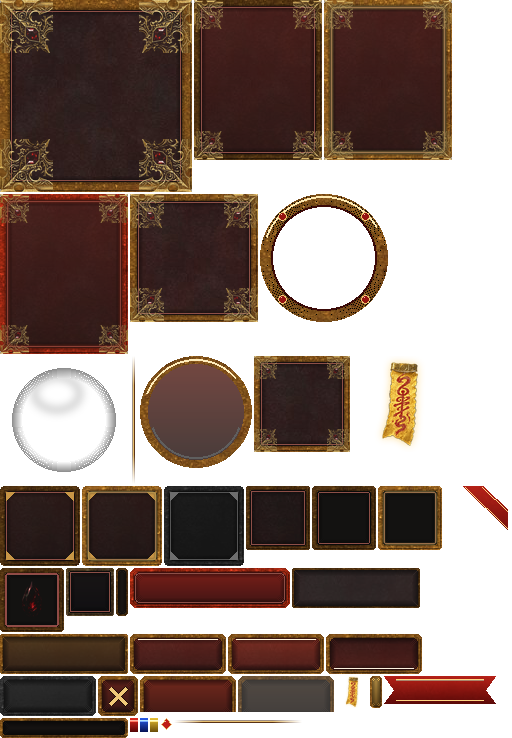
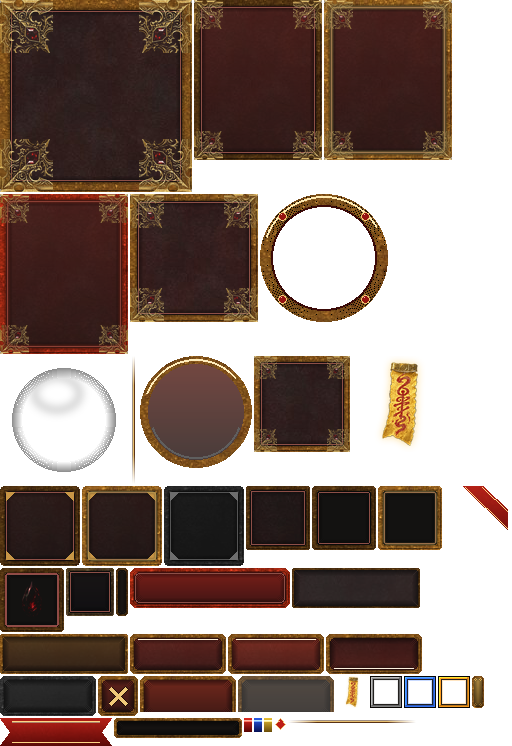
docs(ui): 第三轮品质框 qframe_common/magic/rare（细边九宫格）+ 品质色值清单 + 预览与 atlas 体积

diff --git a/docs/ui-preview/compose_quality.py b/docs/ui-preview/compose_quality.py
@@ -1,0 +1,47 @@
+"""品质框预览：1280×720 + 844×390，背包/装备栏/商店/对比面板（图标仅用于合成预览）。"""
+import os,glob
+exec(open(os.path.join(os.path.dirname(os.path.abspath(__file__)),'compose_preview.py'),encoding='utf-8').read().split("os.makedirs(f'{H}',exist_ok=True)")[0])
+EQ=[p for p in sorted(glob.glob(f'{R}/items/eq_*.png')) if '@2x' not in p]
+RK=['common','magic','rare'];CN={'common':'普通','magic':'精良','rare':'极品'};HEX={'common':(255,255,255),'magic':(0x5a,0xa8,0xff),'rare':(0xff,0xb0,0x20)}
+def cell(c,x,y,s,i,rk,base='slot'):
+    put(c,base,x,y,s,s)
+    if i is not None: c.alpha_composite(ico(EQ[i%len(EQ)],int(s*0.78)),(x+(s-int(s*0.78))//2,y+(s-int(s*0.78))//2))
+    if rk: put(c,f'qframe_{rk}',x,y,s,s)
+def layout(W,Hh,k):
+    c=bg(W,Hh);S=lambda v:max(1,int(v*k));fr='panel_frame_s' if W<1280 else 'panel_frame'
+    # 背包
+    bx,by,bw,bh=S(16),S(16),S(420),S(400);put(c,fr,bx,by,bw,bh);text(c,bx+bw//2,by+S(26),'背包',max(12,S(20)))
+    cs=S(54);g=S(6)
+    for n in range(6*5):
+        r,cc=divmod(n,6);rk=RK[(n*7)%5%3] if n<22 else None
+        cell(c,bx+S(30)+cc*(cs+g),by+S(50)+r*(cs+g),cs,n if rk else None,rk)
+    # 装备栏
+    ex,ey,ew,eh=S(452),S(16),S(250),S(400);put(c,fr,ex,ey,ew,eh);text(c,ex+ew//2,ey+S(26),'装备',max(12,S(20)))
+    es=S(64)
+    for n in range(8):
+        r,cc=divmod(n,2);rk=RK[n%3] if n!=5 else None
+        cell(c,ex+S(40)+cc*S(106),ey+S(50)+r*S(84),es,n*3 if rk else None,rk,'slot' if rk else 'slot_bloodstone' if n==5 else 'slot')
+    # 商店/商城
+    sx,sy,sw,sh=S(718),S(16),S(546),S(250);put(c,fr,sx,sy,sw,sh);text(c,sx+sw//2,sy+S(26),'灵符商城',max(12,S(20)))
+    gs=S(80)
+    for n in range(5):
+        x=sx+S(28)+n*S(102);base='goods_slot_soldout' if n==4 else 'goods_slot_normal' if n else 'goods_slot_sel'
+        cell(c,x,sy+S(56),gs,n*5+2,RK[(n+1)%3],base)
+        text(c,x+gs//2,sy+S(56)+gs+S(16),CN[RK[(n+1)%3]],max(10,S(14)),HEX[RK[(n+1)%3]])
+    # 对比面板
+    cx,cy,cw,ch=S(718),S(280),S(546),S(136);put(c,fr,cx,cy,cw,ch)
+    for j,(t,rk,i) in enumerate((('身上','magic',4),('新获得','rare',9))):
+        x=cx+S(26)+j*S(270);cell(c,x,cy+S(36),S(64),i,rk)
+        text(c,x+S(76),cy+S(50),t,max(10,S(16)),(200,190,160),'lm');text(c,x+S(76),cy+S(80),CN[rk],max(10,S(16)),HEX[rk],'lm')
+        if j==0: put(c,'divider_v',cx+S(266),cy+S(16),S(8),ch-S(32))
+    # 小格（列表行 32/40）
+    for j,s in enumerate((32,40,48)):
+        for n,rk in enumerate(RK): cell(c,S(16)+n*S(70)+j*S(220),S(440)+(0 if W>=1280 else 0),S(s),n+j*3,rk)
+    return c
+A=layout(1280,720,1.0);B=layout(844,390,390/720*1.0)
+# 放大展示原图
+Z=Image.new('RGBA',(1280,200),(14,10,8,255))
+for n,rk in enumerate(RK):
+    z=Image.open(f'{H}/slices/qframe_{rk}.png').resize((128,128),Image.NEAREST);Z.alpha_composite(z,(40+n*200,30));text(Z,104+n*200,180,f'qframe_{rk} 32×32 ×4',14)
+out=Image.new('RGB',(1280,720+390+200+20),(0,0,0));out.paste(A.convert('RGB'),(0,0));out.paste(B.convert('RGB'),(0,730));out.paste(Z.convert('RGB'),(0,1130))
+out.save(f'{H}/preview_quality.jpg',quality=88);print(out.size,os.path.getsize(f'{H}/preview_quality.jpg'))

diff --git a/docs/ui-preview/build_quality.py b/docs/ui-preview/build_quality.py
@@ -1,0 +1,27 @@
+"""品质框 qframe_<rarity>：细边（2px 主色斜面 + 1px 黑外描 + 1px 暗内线）+ 少量高光，中心透明。key/色值取自 src/ui/Panel.ts RARITY_NUM。"""
+from PIL import Image;import json,os
+H=os.path.dirname(os.path.abspath(__file__));os.chdir(H)
+# 主色=Panel.ts RARITY_NUM（框色）；common 0x8a8a8a 在暗底偏闷，框上用同色系略提亮的高光
+Q={'common':(0x8a,0x8a,0x8a),'magic':(0x3a,0x7a,0xff),'rare':(0xff,0xa0,0x20)}
+S=32;M=5
+def mix(c,k): return tuple(max(0,min(255,int(v*k))) for v in c)
+for key,c in Q.items():
+    im=Image.new('RGBA',(S,S),(0,0,0,0));p=im.load()
+    for y in range(S):
+        for x in range(S):
+            d=min(x,y,S-1-x,S-1-y)
+            if d==0: p[x,y]=(8,6,4,255)
+            elif d in(1,2):
+                tl = (x<=2 or y<=2) and not (x>=S-3 or y>=S-3) or (x<=2 and y<=2)
+                k=(1.35 if d==1 else 1.0) if tl else (0.95 if d==1 else 0.72)
+                if key=='rare' and d==1 and tl: k=1.45
+                p[x,y]=mix(c,k)+(255,)
+            elif d==3: p[x,y]=(10,8,6,230)
+            elif d==4: p[x,y]=c+((40 if key=='common' else 70),)
+    # 左上角 1px 亮点（克制的高光）
+    for x,y in((1,1),(2,1),(1,2)): p[x,y]=mix(c,1.6 if key!='common' else 1.4)+(255,)
+    im.save(f'slices/qframe_{key}.png',optimize=True)
+sp=json.load(open('slices.json'))
+CN={'common':'普通','magic':'精良','rare':'极品'}
+for k in Q: sp[f'qframe_{k}']={'w':S,'h':S,'left':M,'right':M,'top':M,'bottom':M,'use':f'品质框·{CN[k]}（rarity={k}）；细边 3px+内光，中心透明，叠在 slot/goods_slot 或图标之上，任意尺寸 nineslice'}
+json.dump(sp,open('slices.json','w'),ensure_ascii=False,indent=1);print(len(sp))

diff --git a/docs/ui-art-plan.md b/docs/ui-art-plan.md
@@ -110,6 +110,9 @@
 | goods_slot_sel.png | 80×80 | 18/18/18/18 | 灵符商城商品格底（选中）；卷轴/项链/血石等商品图标由代码叠加 |
 | goods_slot_soldout.png | 80×80 | 18/18/18/18 | 灵符商城商品格底（售罄灰态）；卷轴/项链/血石等商品图标由代码叠加 |
 | slot_bloodstone.png | 64×64 | 0/0/0/0 | 装备栏血石位空槽（与 slot 同 64 体系；中央暗纹宝石，等比缩放，不走九宫格） |
+| qframe_common.png | 32×32 | 5/5/5/5 | 品质框·普通（rarity=common）；细边 3px+内光，中心透明，叠在 slot/goods_slot 或图标之上，任意尺寸 nineslice |
+| qframe_magic.png | 32×32 | 5/5/5/5 | 品质框·精良（rarity=magic）；细边 3px+内光，中心透明，叠在 slot/goods_slot 或图标之上，任意尺寸 nineslice |
+| qframe_rare.png | 32×32 | 5/5/5/5 | 品质框·极品（rarity=rare）；细边 3px+内光，中心透明，叠在 slot/goods_slot 或图标之上，任意尺寸 nineslice |
 
 说明：
 - 边距 0/0/0/0 的是固定比例图，用 Image + setDisplaySize 等比缩放，不走九宫格。
@@ -144,6 +147,48 @@
 
 商城接入：充值档位和商品格都是九宫格 nineslice，内容（图标、名称、价格）放在同一个 Container 里叠加。长列表沿用 scrollList 加 mask 滚动。示意图是 `preview_extra.jpg` 的上半部分。商品价格、档位金额都是示意数字，不是需求。
 
+### 3.3 品质框（第三轮）
+
+**现有品质等级（以代码为准，共 3 档，没有自造等级）**
+
+- 类型定义：`src/combat/types.ts:54` 中 `type Rarity = 'common' | 'magic' | 'rare'`。
+- 后缀：`World.ts:586/607` 生成名字后缀 [精良]/[极品]。
+- 排序：`bagSort.ts:3` 中 RARITY_RANK 为 rare 2 > magic 1 > common 0。
+
+| key | 中文（Panel.ts:43 RARITY_CN） | 格子描边 Panel.ts:42 RARITY_NUM | 名字文字 Panel.ts:41 RARITY_HEX | 地面光柱 BattleScene.ts:32 RARITY_COLOR / :33 RARITY_TEXT |
+|---|---|---|---|---|
+| common | 普通 | 0x8a8a8a | #ffffff | 0xf0e6c0 / #f0e6c0 |
+| magic | 精良 | 0x3a7aff | #5aa8ff | 0x3d9bff / #3d9bff |
+| rare | 极品 | 0xffa020 | #ffb020 | 0xffa020 / #ffa020 |
+
+- 无物品的空格描边是 0x4a3a28（Panel.ts:113/489）。
+- data/fx.ts:24 中的 pillarCommon 0xffff00、pillarRare 0xff0000、pillarMagic 0x3388ff 是按物品 id 指定的特效光柱色（fx.ts:31 RARITY 表），不是 Rarity 品质色，品质框不采用。
+- **套装**（items.ts 的 `set: 'woma'` 等，以及 SETS / r14b CLASS_SETS）是独立字段，不属于品质档。代码里没有「传说」「史诗」这类等级。所以本轮只出 3 个框；套装标识如果需要，建议另出角标，待定。
+
+**切片**：qframe_common / qframe_magic / qframe_rare，尺寸 32×32，边距 5/5/5/5，中心透明。
+
+- 结构：1px 黑外描 → 2px 主色斜面（左上亮、右下暗）→ 1px 暗内线 → 1px 主色半透明内光。
+- 主色直接取 RARITY_NUM。
+- 各档只差颜色和高光强度：rare 左上高光略强。没有雕花，也没有厚角饰。
+
+**为什么只出一个尺寸**：边框只有约 3px，九宫格拉伸时边宽保持不变，32~96px 都能用同一张：
+
+- 小格 32/40/48（列表行、手机）用 setSize 缩小；
+- 标准格 54/64（背包、装备栏）；
+- 商品格 80（商城）。
+
+预览图里各尺寸都清晰，再出一档小图收益不大。
+
+**叠放与接入**（只写文档，代码由系统开发改）：
+
+1. 叠放顺序：底格（slot / goods_slot_* / slot_bloodstone）→ 物品图标（约占格宽 78%）→ `scene.add.nineslice(x, y, 'ui', 'qframe_' + item.rarity, size, size, 5, 5, 5, 5)`。
+2. 帧名直接用 `item.rarity` 拼接，和 RARITY_NUM / RARITY_HEX 用同一个 key，新增等级时三处同步加。
+3. 替换点：Panel.ts:113（slotBox）和 Panel.ts:489（对比面板图标格）中的 `rectangle(...).setStrokeStyle(2, RARITY_NUM[rarity])`，改成「底格 + qframe」。空格不叠 qframe，保留底格原样。
+4. 名字文字色继续用 RARITY_HEX；售罄格同样叠 qframe，统一 alpha 0.5。
+5. 商城价格标签旁的品质文字也用 RARITY_HEX。
+
+预览图：`docs/ui-preview/preview_quality.jpg`，生成脚本 `build_quality.py`（追加到 slices.json）和 `compose_quality.py`。重建顺序：build_extra.py → build_quality.py → pack_atlas.py。
+
 ## 4. 接入建议（给系统开发）
 
 1. **加载**：在 assets-manifest 里加 atlas `ui_atlas`（png/webp + json），帧名就是切片文件名去掉 .png。样例见 `docs/ui-preview/atlas_ui_preview.png/.json`，这是 512×356 的简易 shelf 打包，正式打包建议用 TexturePacker 或 free-tex-packer，padding 2、extrude 1，防止 NineSlice 采样渗色。
@@ -162,23 +207,23 @@
 - MobileHud 是 DOM/CSS 写的，可以直接用同一批 PNG 做 `border-image`，例如 `border-image: url(btn_normal.png) 14 16 fill / 14px 16px`，这里的数字就是 §3 的边距。血条用 bar_frame 做 border-image，内层 div 用 bar_fill_* 作背景，并设 background-size: 100% 100%。
 - 预览 `preview_844x390.jpg` 是把 1280 的布局等比缩到 0.54 后合成的，用来看拉伸效果，不代表最终的手机排版。
 
-## 6. 包体积与加载评估（实测，第二轮更新）
+## 6. 包体积与加载评估（实测，第三轮更新）
 
 | 项 | 实测 |
 |---|---|
-| 40 个切片 PNG 合计 | **320,146 B**（第一轮 25 个 160,299 B，第二轮新增 15 个 159,847 B） |
+| 43 个切片 PNG 合计 | **320,835 B**（第一轮 25 个 160,299 B；第二轮 15 个 159,847 B；第三轮品质框 3 个 689 B） |
 | 其中最大 | panel_frame 62,460 B；recharge_card_* 三张约 28.7~29.1 KB；dialog_frame 28,301 B；panel_frame_s 15,031 B |
-| 合并 atlas（512×738 PNG，PIL optimize） | **304,576 B**（docs/ui-preview/atlas_ui_preview.png，帧表 .json） |
-| 同 atlas WebP 无损 | **209,266 B**（atlas_ui_preview_lossless.webp） |
-| 同 atlas WebP q90 / alpha95 | **75,524 B**（atlas_ui_preview_q90.webp） |
-| atlas 显存（RGBA） | 512×738×4 = **1,511,424 B（约 1.44 MB）** |
+| 合并 atlas（512×746 PNG，PIL optimize） | **305,077 B**（docs/ui-preview/atlas_ui_preview.png，帧表 .json） |
+| 同 atlas WebP 无损 | **210,322 B**（atlas_ui_preview_lossless.webp） |
+| 同 atlas WebP q90 / alpha95 | **76,022 B**（atlas_ui_preview_q90.webp） |
+| atlas 显存（RGBA） | 512×746×4 = **1,527,808 B（约 1.46 MB）** |
 | 对比：现有 public/assets/ui | 564,581 B；整个 public/assets 约 314 MB（第一轮 du -sh） |
 | 生成源材质 docs/ui-preview/src | 461,604 B（只在 docs，不进 public/dist） |
 
 compress-assets（vite.config.ts 里的 `compressAssets`）现在只处理 portraits/bg/map 和 ui/bg_dungeon.jpg，**ui 目录不在范围内**。
 
 建议（需要系统开发改代码，本分支不改）：
-1. 正式打包成 `assets/ui/ui_atlas.png` + json，40 个文件变成 1 次请求。预览 atlas 用的是简易 shelf 打包，有空隙；正式打包建议用 TexturePacker 或 free-tex-packer，padding 2、extrude 1，可以压到 512×512 左右。
-2. **只用无损或 q≥90**：在 compressAssets 的 targets 里加 ui_atlas，用 `{ lossless: true }`（实测 209 KB）或 `{ quality: 90, alphaQuality: 95 }`（实测 76 KB）。不要套用立绘的 80/85 或背景的 72，金边细线会出现色带。同时要改 loader.ts `assetUrl()` 的正则，让 `assets/ui/ui_atlas.png` 映射到 .webp。
+1. 正式打包成 `assets/ui/ui_atlas.png` + json，43 个文件变成 1 次请求。预览 atlas 用的是简易 shelf 打包，有空隙；正式打包建议用 TexturePacker 或 free-tex-packer，padding 2、extrude 1，可以压到 512×512 左右。
+2. **只用无损或 q≥90**：在 compressAssets 的 targets 里加 ui_atlas，用 `{ lossless: true }`（实测 210 KB）或 `{ quality: 90, alphaQuality: 95 }`（实测 76 KB）。不要套用立绘的 80/85 或背景的 72，金边细线会出现色带。同时要改 loader.ts `assetUrl()` 的正则，让 `assets/ui/ui_atlas.png` 映射到 .webp。
 3. **加载时机**：ui_atlas 放在 Boot/Title 预加载，一次加载，开始界面就要用。商城切片已经并进同一张 atlas，额外只有约 +160 KB PNG，不单独懒加载。以后商城如果有大 banner 或活动图，再单独打 atlas，打开商城时懒加载。
-4. 增量：WebP 无损约 +209 KB，q90 约 +76 KB，相对 314 MB 的资源可以忽略。显存 1.44 MB，手机端也可以接受。
+4. 增量：WebP 无损约 +210 KB，q90 约 +76 KB，相对 314 MB 的资源可以忽略。显存 1.46 MB，手机端也可以接受。
